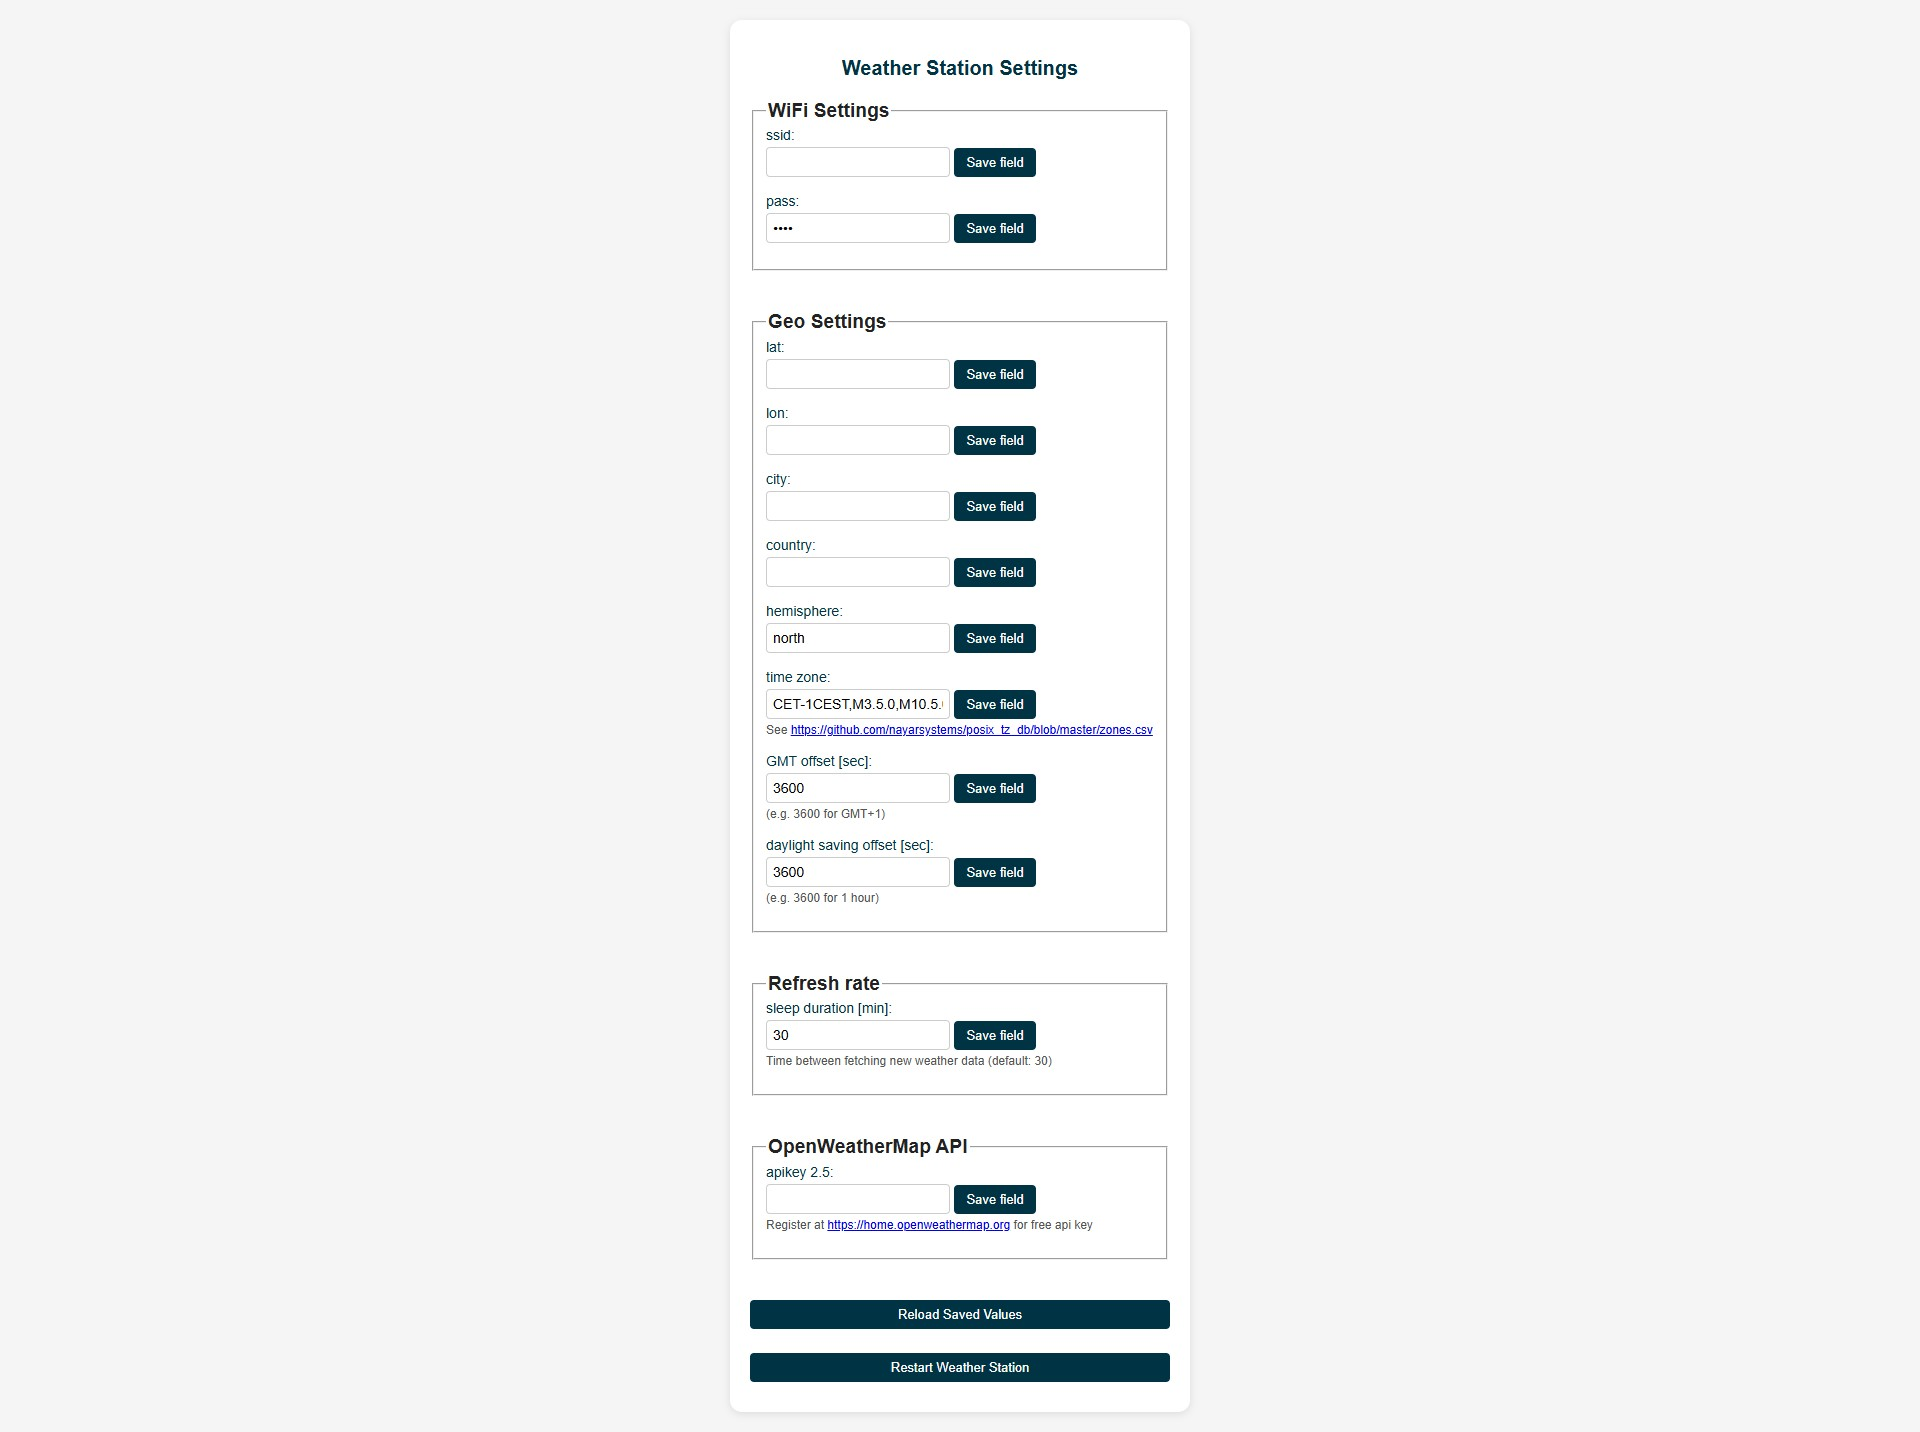
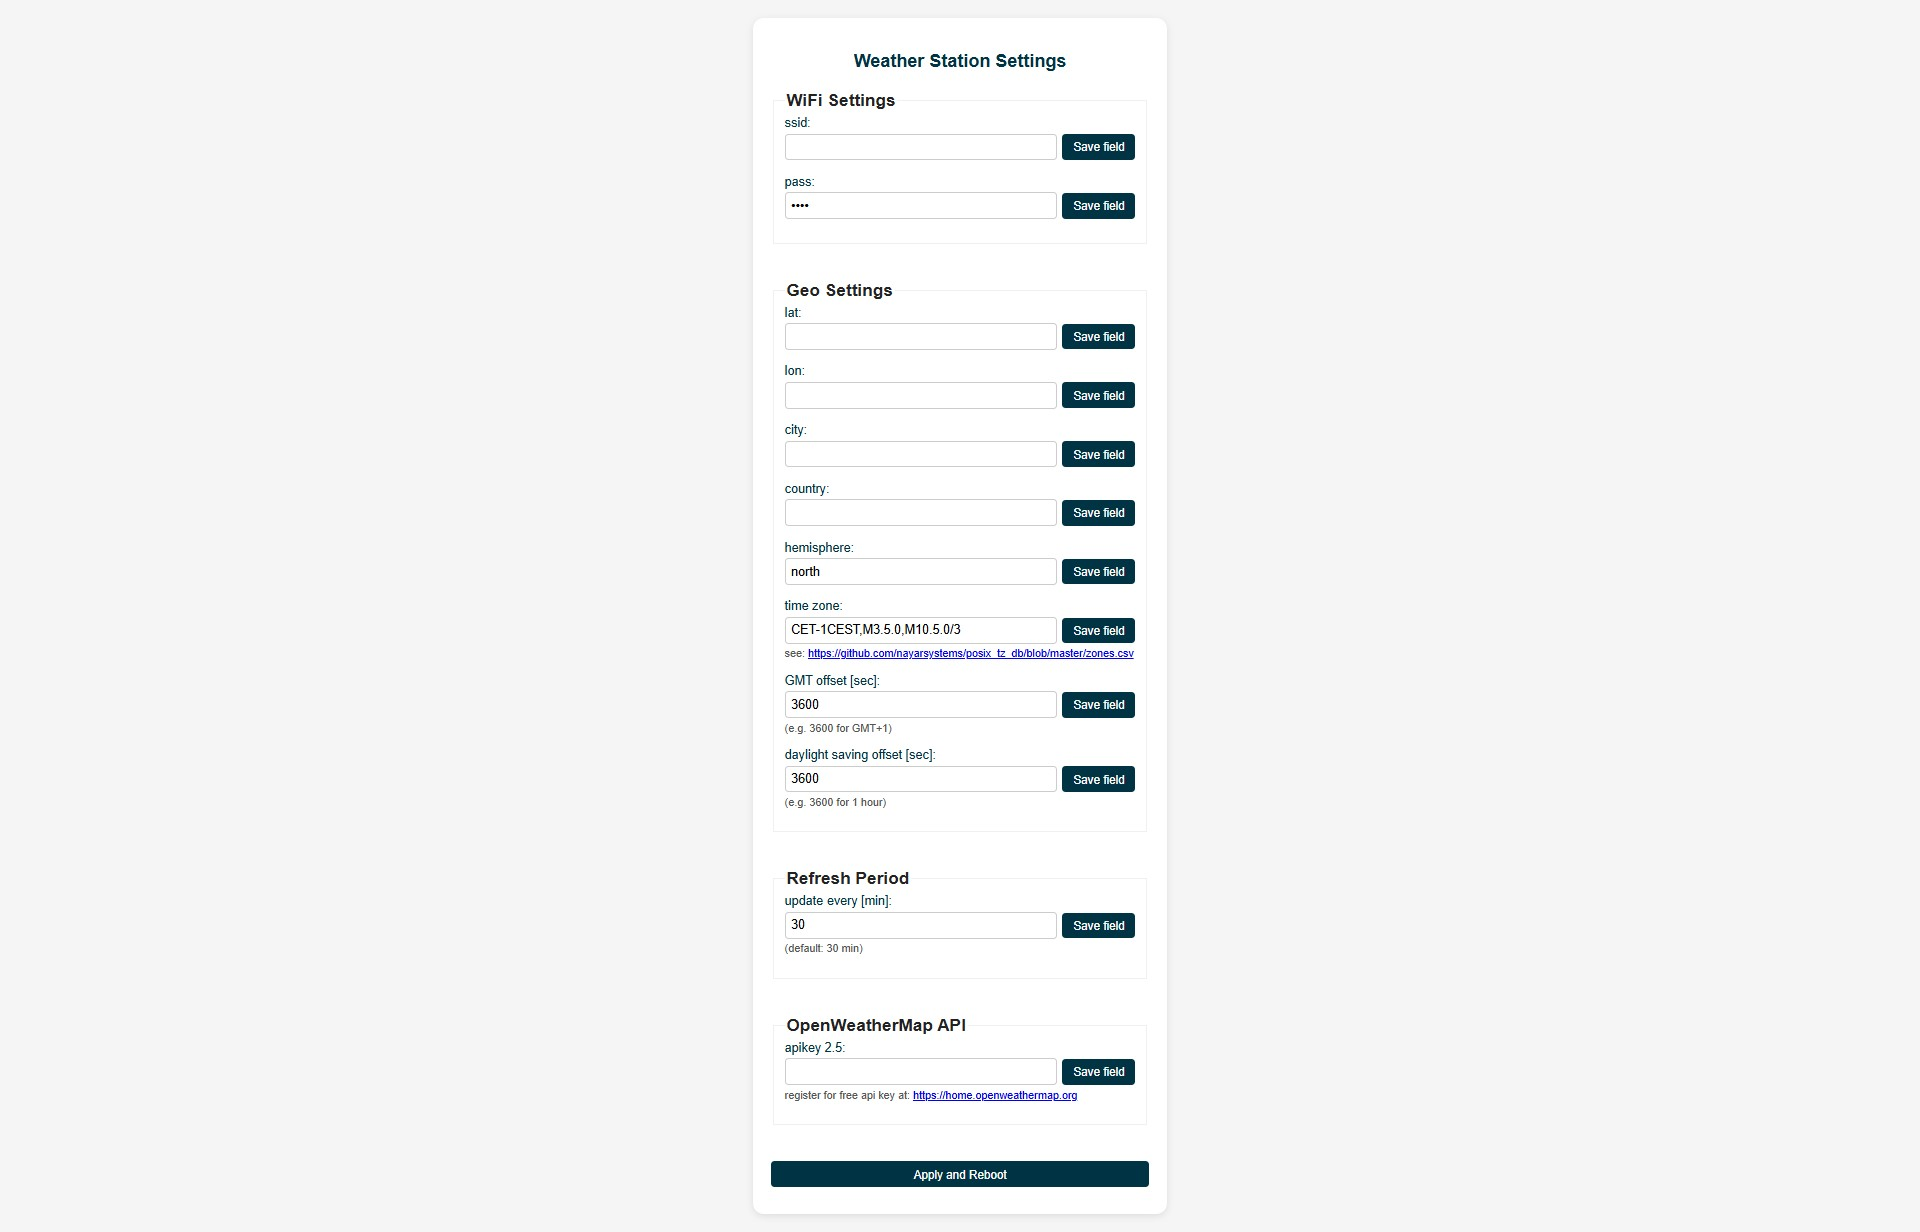
Bday function update

diff --git a/src/wifi_setup.cpp b/src/wifi_setup.cpp
@@ -89,7 +89,7 @@ void load_wifi_config() {
     EEPROM.write(SLEEPDURATION_ADDR+3, (uint8_t)((SleepDuration >> 24) & 0xFF));
     EEPROM.write(EEPROM_MARKER_ADDR, EEPROM_MARKER_VALUE); // Set marker
     EEPROM.commit();
-    String name = "partyboy";
+    String name = "Jupiter";
     String bday = "30.02";
     EEPROM.begin(EEPROM_SIZE); // Ensure EEPROM is initialized with enough size
     eeprom_write_string(BDAY_NAME_ADDR, name, 32);
@@ -130,12 +130,14 @@ String html_input(const char* name, const String& value, bool isPassword=false, 
   String displayLabel = label ? String(label) : String(name);
   String input = "<form class='field-form' action='/save' method='POST'>";
   input += "<span class='field-label'>" + displayLabel + ":</span>";
+  input += "<div class='field-row'>";
   input += "<input type='";
   input += (isPassword ? "password" : "text");
-  input += "' name='" + String(name) + "' value='" + (isPassword ? "****" : value) + "' data-original='" + value + "' oninput='detectChange(this)'> ";
+  input += "' name='" + String(name) + "' value='" + (isPassword ? "****" : value) + "' data-original='" + value + "' oninput='detectChange(this)'>";
   input += "<button type='submit' name='update' value='" + String(name) + "'>Save field</button>";
+  input += "</div>";
   if (note) {
-    input += "<br><span class='field-note'>" + String(note) + "</span>";
+    input += "<span class='field-note'>" + String(note) + "</span>";
   }
   input += "</form>";
   return input;
@@ -221,18 +223,18 @@ const char* wifi_form_html_template = R"rawliteral(
   </style>
   <script>
     function detectChange(input, userTyped = false) {
-      var btn = input.form.querySelector('button[type="submit"]');
-      var original = input.getAttribute('data-original') || '';
-      var current = input.value;
-
-      // For password fields, only detect change when user typed
-      if (input.type === 'password' && !userTyped) {
-        btn.style.backgroundColor = '#003344';
-        btn._changed = false;
-        return;
-      }
-
-      if (current !== original) {
+      var form = input.form;
+      var btn = form.querySelector('button[type="submit"]');
+      var changed = false;
+      var inputs = form.querySelectorAll('input');
+      inputs.forEach(function(inp) {
+        var original = inp.getAttribute('data-original') || '';
+        var current = inp.value;
+        // For password fields, only detect change when user typed
+        if (inp.type === 'password' && !userTyped) return;
+        if (current !== original) changed = true;
+      });
+      if (changed) {
         btn.style.backgroundColor = '#ff9800'; // changed → orange
         btn._changed = true;
       } else {
@@ -290,55 +292,28 @@ const char* wifi_form_html_template = R"rawliteral(
   <div class="container">
     <h2>Weather Station Settings</h2>
     %s
-    <form action='/refresh' method='POST' class="btn-group">
-      <button type='submit'>Reload Saved Values</button>
-    </form>
     <form action='/reboot' method='POST' class="btn-group">
-      <button type='submit'>Restart Weather Station</button>
+      <button type='submit'>Apply and Reboot</button>
     </form>
   </div>
 </body>
 </html>
 )rawliteral";
 
+
 void handle_bday_root() {
   String name = eeprom_read_string(BDAY_NAME_ADDR, 32);
   String bday = eeprom_read_string(BDAY_DATE_ADDR, 8);
-  String form = "<h2>Birthday Setup</h2>";
-  form += "<form action='/bday_save' method='POST'>";
-  form += "Name:<br><input type='text' name='bday_name' value='" + name + "'><br><br>";
-  form += "Birthday (dd.mm):<br><input type='text' name='bday_date' value='" + bday + "'><br><br>";
-  form += "<button type='submit'>Save Birthday</button>";
-  form += "</form>";
-  form += "<br><form action='/' method='GET'><button type='submit'>Back to Setup</button></form>";
-  wifiServer.send(200, "text/html", form);
-}
-
-void handle_bday_save() {
-  if (wifiServer.hasArg("bday_name") && wifiServer.hasArg("bday_date")) {
-    String name = wifiServer.arg("bday_name");
-    String bday = wifiServer.arg("bday_date");
-    EEPROM.begin(EEPROM_SIZE); // Ensure EEPROM is initialized with enough size
-    eeprom_write_string(BDAY_NAME_ADDR, name, 32);
-    eeprom_write_string(BDAY_DATE_ADDR, bday, 8);
-    EEPROM.commit();
-    Serial.println("Birthday name saved: " + name);
-    Serial.println("Birthday date saved: " + bday);
-
-    // Read back from EEPROM to ensure fields are populated with saved values
-    String saved_name = eeprom_read_string(BDAY_NAME_ADDR, 32);
-    String saved_bday = eeprom_read_string(BDAY_DATE_ADDR, 8);
-    String form = "<h2>Birthday Setup</h2>";
-    form += "<form action='/bday_save' method='POST'>";
-    form += "Name:<br><input type='text' name='bday_name' value='" + saved_name + "'><br><br>";
-    form += "Birthday (dd.mm):<br><input type='text' name='bday_date' value='" + saved_bday + "'><br><br>";
-    form += "<button type='submit'>Save Birthday</button>";
-    form += "</form>";
-    form += "<br><form action='/' method='GET'><button type='submit'>Back to Setup</button></form>";
-    wifiServer.send(200, "text/html", form);
-  } else {
-    wifiServer.send(400, "text/html", "<h2>Missing name or birthday</h2>");
-  }
+  String form = "";
+  form += "<fieldset style='margin-bottom:40px;'><legend style='font-size:1.2em;font-weight:bold;'>Setup birthday greeting</legend>";
+  // Use html_input but override the action to /bday_save
+  form += html_input("bday_name", name, false, "name", nullptr);
+  form += html_input("bday_date", bday, false, "birthday (dd.mm)", "(e.g. 24.12)");
+  form += "</fieldset>";
+  form += "<form action='/' method='GET' class='btn-group'><button type='submit'>Back to Setup</button></form>";
+  String html = String(wifi_form_html_template);
+  html.replace("%s", form);
+  wifiServer.send(200, "text/html", html);
 }
 
 void handle_wifi_root() {
@@ -363,16 +338,16 @@ void handle_wifi_root() {
   form += html_input("city", city_val, false, nullptr, nullptr);
   form += html_input("country", country_val, false, nullptr, nullptr);
   form += html_input("hemisphere", hemisphere_val, false, nullptr, nullptr);
-  form += html_input("timezone", timezone_val, false, "time zone", "See <a href='https://github.com/nayarsystems/posix_tz_db/blob/master/zones.csv' target='_blank'>https://github.com/nayarsystems/posix_tz_db/blob/master/zones.csv</a>");
+  form += html_input("timezone", timezone_val, false, "time zone", "see: <a href='https://github.com/nayarsystems/posix_tz_db/blob/master/zones.csv' target='_blank'>https://github.com/nayarsystems/posix_tz_db/blob/master/zones.csv</a>");
   form += html_input("gmtoffset", gmtoffset_val, false, "GMT offset [sec]", "(e.g. 3600 for GMT+1)");
   form += html_input("daylight", daylight_val, false, "daylight saving offset [sec]", "(e.g. 3600 for 1 hour)");
    form += "</fieldset>";
-  form += "<fieldset style='margin-bottom:40px;'><legend style='font-size:1.2em;font-weight:bold;'>Refresh rate</legend>";
-  form += html_input("sleepduration", sleepduration_val, false, "sleep duration [min]", "Time between fetching new weather data (default: 30)");
+  form += "<fieldset style='margin-bottom:40px;'><legend style='font-size:1.2em;font-weight:bold;'>Refresh Period</legend>";
+  form += html_input("sleepduration", sleepduration_val, false, "update every [min]", "(default: 30 min)");
   form += "</fieldset>";
   form += "<fieldset style='margin-bottom:40px;'><legend style='font-size:1.2em;font-weight:bold;'>OpenWeatherMap API</legend>";
   String apikey_val = eeprom_read_string(APIKEY_ADDR, 64);
-  form += html_input("apikey", apikey_val, false, "apikey 2.5", "Register at <a href='https://home.openweathermap.org' target='_blank'> https://home.openweathermap.org</a> for free api key");
+  form += html_input("apikey", apikey_val, false, "apikey 2.5", "register for free api key at: <a href='https://home.openweathermap.org' target='_blank'> https://home.openweathermap.org</a>");
   form += "</fieldset>";
   String html = String(wifi_form_html_template);
   html.replace("%s", form);
@@ -454,6 +429,14 @@ void handle_wifi_save() {
       EEPROM.write(SLEEPDURATION_ADDR+2, (uint8_t)((val >> 16) & 0xFF));
       EEPROM.write(SLEEPDURATION_ADDR+3, (uint8_t)((val >> 24) & 0xFF));
     }
+    if (field == "bday_name" && wifiServer.hasArg("bday_name")) {
+      Serial.println("Saving bday_name: " + wifiServer.arg("bday_name"));
+      eeprom_write_string(BDAY_NAME_ADDR, wifiServer.arg("bday_name"), 32);
+    }
+    if (field == "bday_date" && wifiServer.hasArg("bday_date")) {
+      Serial.println("Saving bday_date: " + wifiServer.arg("bday_date"));
+      eeprom_write_string(BDAY_DATE_ADDR, wifiServer.arg("bday_date"), 8);
+    }
     EEPROM.commit();
     Serial.println("EEPROM commit done. No page refresh.");
     wifiServer.send(204, "text/plain", "");
@@ -480,7 +463,6 @@ void run_wifi_setup_portal() {
   wifiServer.on("/reboot", HTTP_POST, handle_wifi_reboot);
   wifiServer.on("/refresh", HTTP_POST, handle_wifi_refresh);
   wifiServer.on("/bday", HTTP_GET, handle_bday_root);
-  wifiServer.on("/bday_save", HTTP_POST, handle_bday_save);
   wifiServer.on("/erase_eeprom", HTTP_GET, handle_erase_eeprom);
   wifiServer.begin();
   Serial.println("WiFi setup portal started. Connect to 'weather_station_wifi' and open http://192.168.4.1/");

diff --git a/README.md b/README.md
@@ -6,11 +6,13 @@ This directory is a fork of David Bird’s ESP32-e-Paper Weather Display project
 
 ## Features
 
-- Updated display layout for improved readability.
+
 - Cycling through "current day", "next day" and "4-day" forecast wiev on button press.
+- WiFi server for web setup of credentials and geographic data (no need to reprogram the controller every time).
 - Improved icons (night icons are displayed with a moon symbol instead of a sun).
-- WiFi server for user friendly setup.
-- Optimized for LilyGo 2.13" 250x122 e-Paper display.
+- Updated display layout for improved readability (optimized for LilyGo 2.13" 250x122 e-Paper display)
+
+- **extra:** B-day greeting: set up a birthday greeting for a person that occures every year
 
 ## Housing for 3D print
 The 3D design files for the housing are included in this repository. This design is based on [Sir.Puchtuning](https://makerworld.com/en/models/647684-lilygo-t5-2-13-small-case?from=search#profileId-1024510)'s project, with added feet and reinforced, optimised structure for 3D printing. There is space to fit a 1000mAh 3.7V battery as well.
@@ -18,7 +20,6 @@ The 3D design files for the housing are included in this repository. This design
 ## 📷 Images
 
 ![alt_text, width="200"](./LilyGo_213_weather_01.jpg)
-![alt_text, width="200"](./LilyGo_213_weather_02.jpg)
 ![alt_text, width="200"](./LilyGo_213_weather_03.jpg)
 ![alt_text, width="200"](./LilyGo_213_weather_04.jpg)
 
@@ -28,6 +29,15 @@ The web interface enables setting up credentials, time zone, api key, etc. witho
 Usage: For entering the Weather station setup page keep the "next" button pressed while switching the power ON. This will start a WiFi server called "weather_station_wifi". Connect to this and open http://192.168.4.1/
 
 ![Setup page, width="200"](./LilyGo_213_weather_station_setup.jpg)
+
+## B-day greeting
+
+To set up a reoccuring birthday greeting for a person, open page: http://192.168.4.1/bday (while connected to "weather_station_wifi")
+![alt_text, width="200"](./LilyGo_213_Bday_setup.jpg)
+
+This will show the following greeting message every year on the set date:
+
+![alt_text, width="200"](./LilyGo_213_Bday_greeting.jpg)
 
 ## Hardware
 1. ESP32 e-ink display module: https://lilygo.cc/en-pl/products/t5-2-13inch-e-paper
